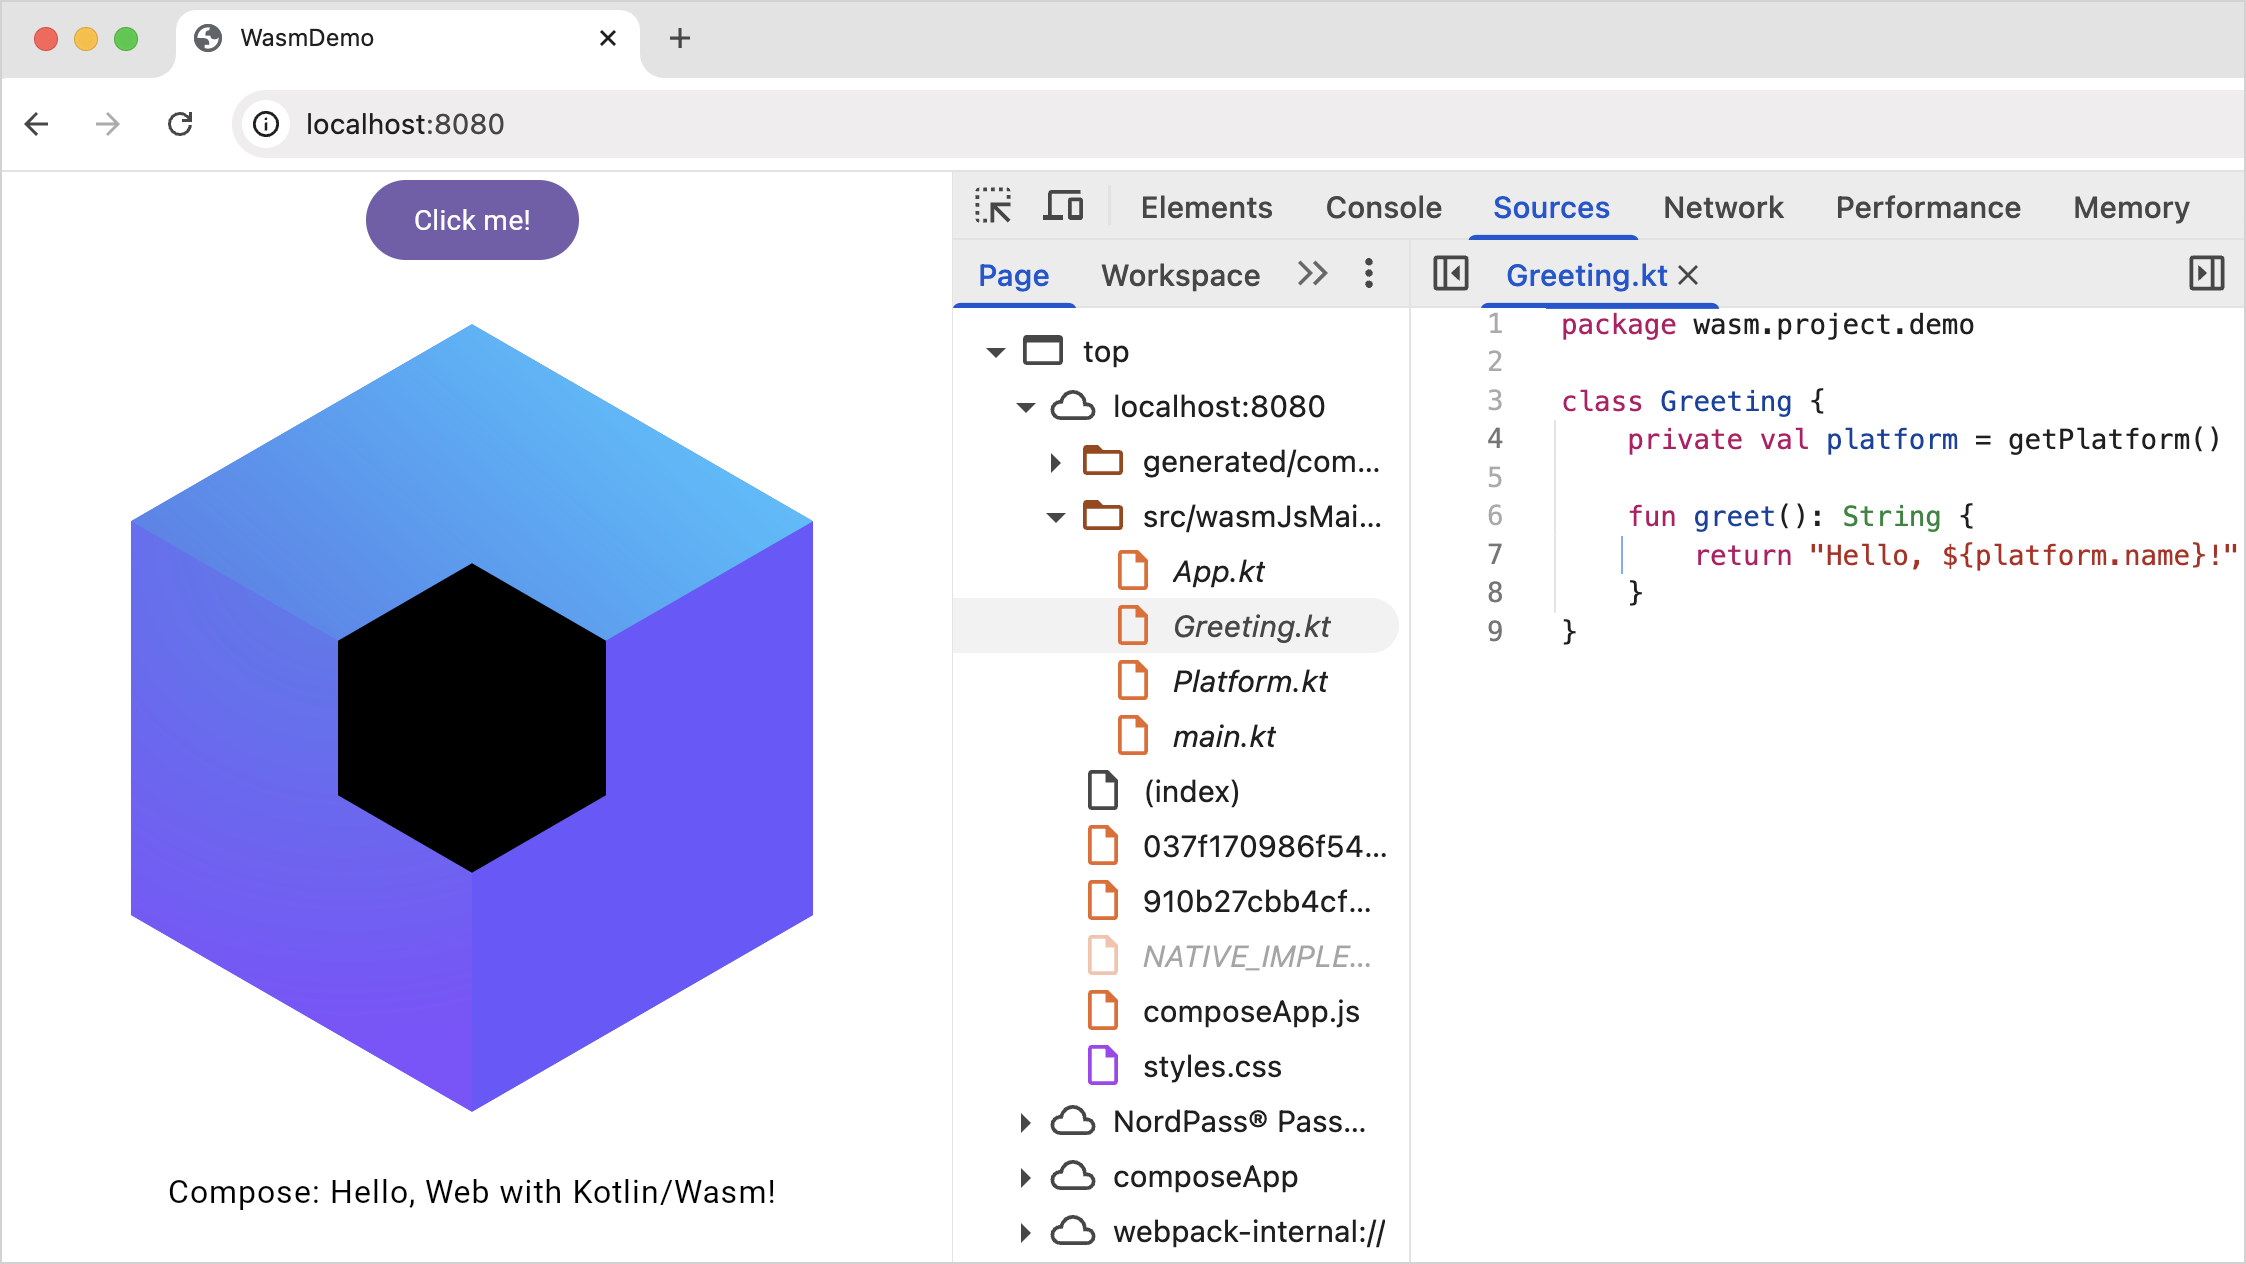
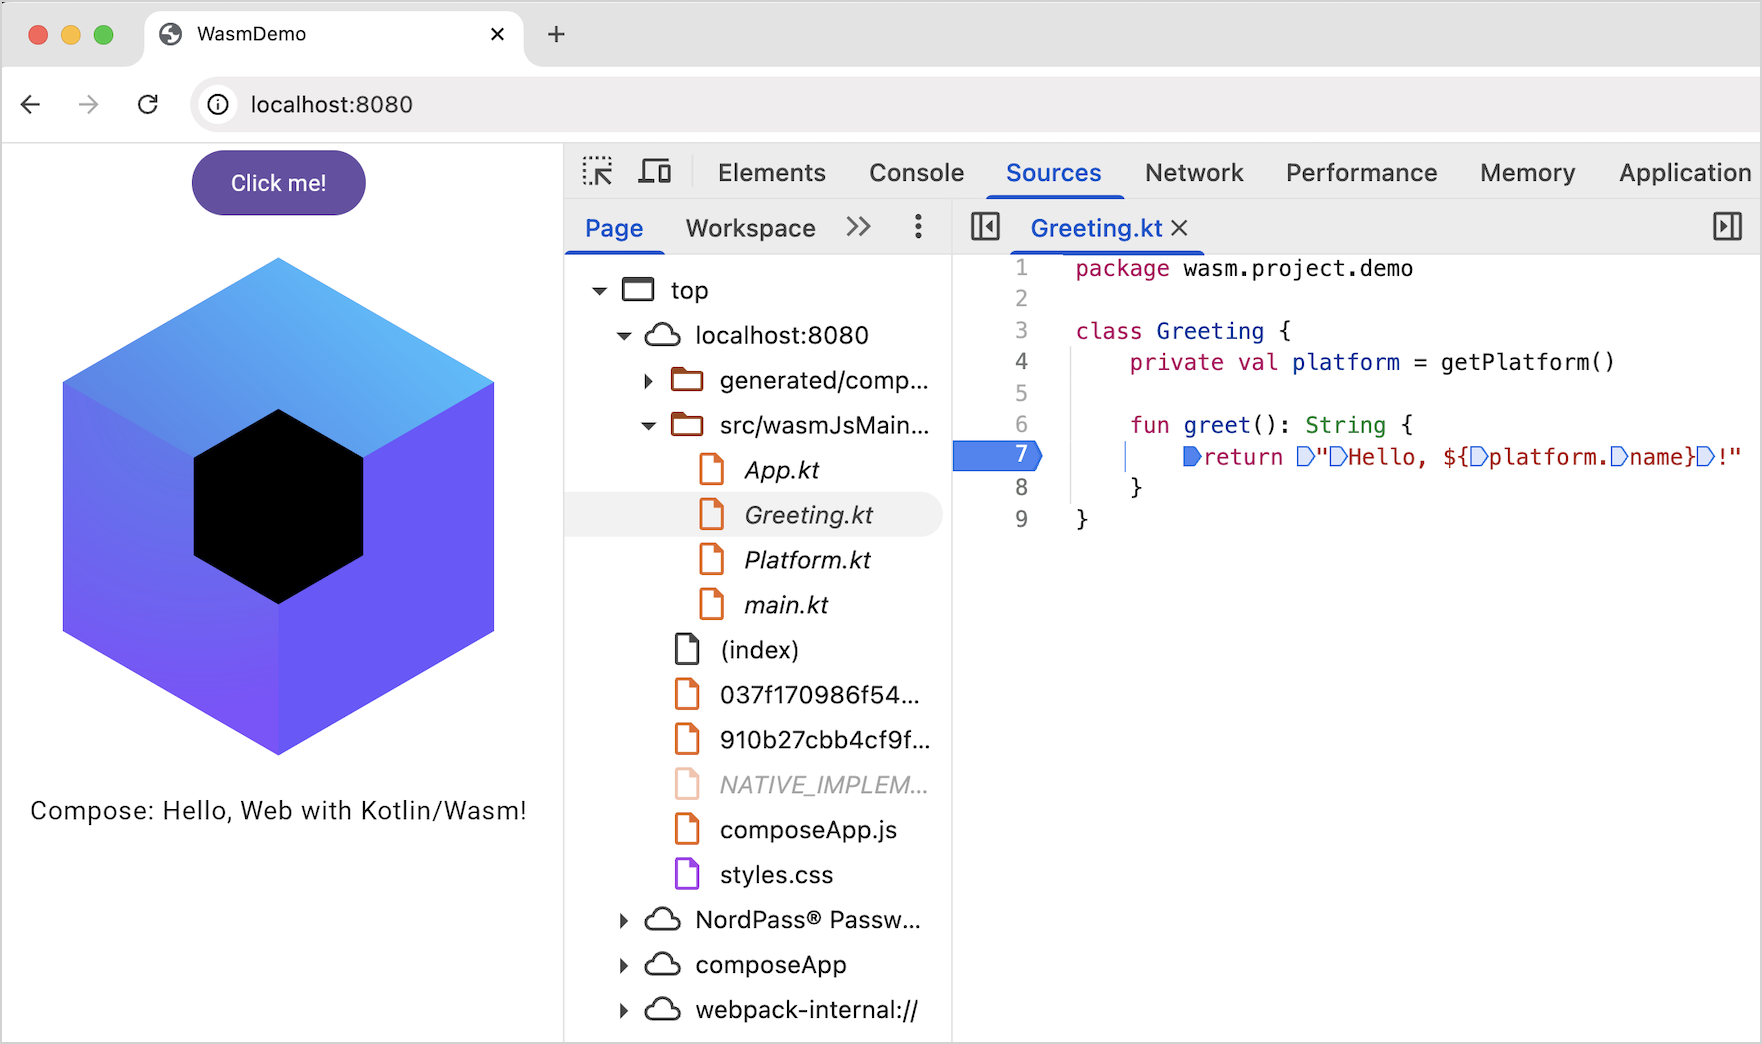
Sarah review

diff --git a/docs/topics/wasm/wasm-debugging.md b/docs/topics/wasm/wasm-debugging.md
@@ -21,7 +21,7 @@ Create a project using the Kotlin Multiplatform wizard:
 3. Select the **Web** option. Make sure that no other options are selected.
 4. Click the **Download** button and unpack the resulting archive.
 
-![Kotlin Multiplatform wizard](wasm-compose-web-wizard.png){width=550}
+![Kotlin Multiplatform wizard](wasm-compose-web-wizard.png){width=450}
 
 ## Open the project in IntelliJ IDEA
 
@@ -39,7 +39,7 @@ Create a project using the Kotlin Multiplatform wizard:
 
 2. In **composeApp** | **Tasks** | **kotlin browser**, select and run the **wasmJsBrowserDevelopmentRun** task.
 
-   ![Run the Gradle task](wasm-gradle-task-window.png){width=550}
+   ![Run the Gradle task](wasm-gradle-task-window.png){width=450}
 
    Alternatively, you can run the following command in the terminal from the `WasmDemo` root directory:
 
@@ -195,11 +195,11 @@ After enabling custom formatters, you can continue with the debugging tutorial.
    * ![Step over](wasm-step-over.png){width=30}{type="joined"} Step over to execute the current line and pause on the next line.
    * ![Step out](wasm-step-out.png){width=30}{type="joined"} Step out to execute the code until it exits the current function.
 
-   ![Debug controls](wasm-debug-controls.png){width=550}
+   ![Debug controls](wasm-debug-controls.png){width=450}
 
 6. Check the **Call stack** and **Scope** panes to trace the sequence of function calls and pinpoint the location of any errors.
 
-   ![Check call stack](wasm-debug-scope.png){width=550}
+   ![Check call stack](wasm-debug-scope.png){width=450}
 
    For an improved visualization of the variable values, see _Use custom formatters_ within the [Configure your browser for debugging](#configure-your-browser-for-debugging) section.
 
